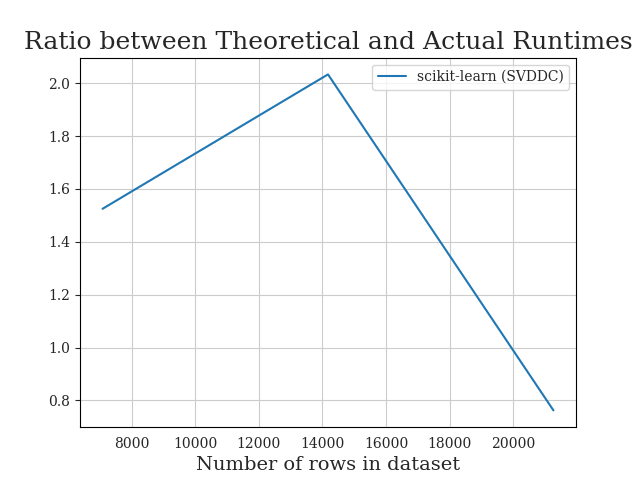
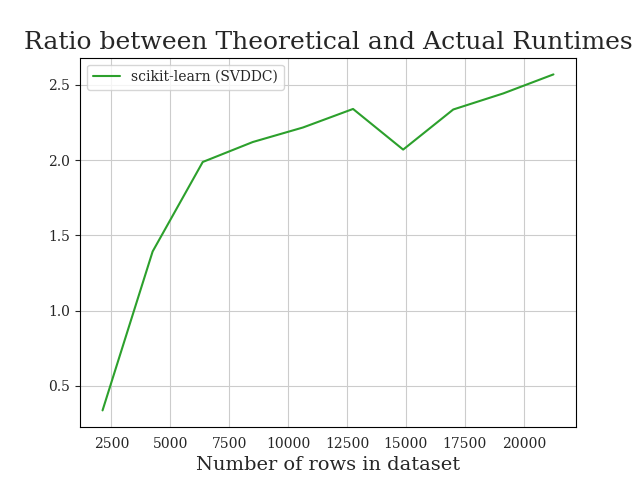
performing tests

diff --git a/BetaDataExper/BigOTest/big_o.py b/BetaDataExper/BigOTest/big_o.py
@@ -1,6 +1,6 @@
 import numpy as np
 import pandas as pd
-from time import perf_counter, process_time
+from time import perf_counter_ns, process_time_ns
 from sklearn import linear_model
 import tensorflow as tf
 import matplotlib.pyplot as plt
@@ -64,7 +64,7 @@ def actual_expr(X_train: np.array, y_train: np.array, timer: object, reg_names: 
                     model = mx.np.linalg.lstsq(partial_X_train, partial_y_train[...,np.newaxis], rcond=None)[0]
             stop_lstsq = timer()
 
-            time_list += [(stop_lstsq - start_lstsq)/10**-9] 
+            time_list += [(stop_lstsq - start_lstsq)] 
 
         results_dict[reg_name] = time_list   
 
@@ -74,9 +74,9 @@ def actual_expr(X_train: np.array, y_train: np.array, timer: object, reg_names: 
 def set_time_type(time_type: str) -> object:
     match time_type:
         case "total":
-            timer = perf_counter   
+            timer = perf_counter_ns   
         case "process":
-            timer = process_time       
+            timer = process_time_ns      
         case _:
             raise ValueError(f"time_type must be one of the options shown in the docs, not: {time_type}")
     return timer
@@ -194,6 +194,15 @@ def make_viz(actual_time_dict: dict, theory_time_dict: dict, timer: object, rows
 
     # for reg in actual_time_dict.keys():
     #     plt.plot(rows_in_expr, actual_time_dict[reg], label=label_dict[reg]+' Actual')
+    #     plt.legend()
+    #     plt.title("Theoretical Bound vs. Actual Runtime")
+    #     plt.ylabel("Time in nanoseconds")
+    #     plt.xlabel("Number of rows in dataset")
+    #     plt.savefig(f"BetaDataExper/BigOTest/figs/bigO_{reg}")
+    #     plt.clf()
+
+    # for reg in actual_time_dict.keys():
+    #     plt.plot(rows_in_expr, actual_time_dict[reg], label=label_dict[reg]+' Actual')
     #     plt.plot(rows_in_expr, theory_time_dict[reg], label=label_dict[reg]+' Theoretical')
     #     plt.legend()
     #     plt.title("Theoretical Bound vs. Actual Runtime")
@@ -201,15 +210,24 @@ def make_viz(actual_time_dict: dict, theory_time_dict: dict, timer: object, rows
     #     plt.xlabel("Number of rows in dataset")
     #     plt.savefig(f"BetaDataExper/BigOTest/figs/bigO_{reg}")
     #     plt.clf()
-    
-    for reg in actual_time_dict.keys():
-        plt.plot(rows_in_expr, [theo / act for theo, act in zip(theory_time_dict[reg],actual_time_dict[reg])], label=label_dict[reg])
+
+    for i, reg in enumerate(actual_time_dict.keys()):
+        plt.plot(rows_in_expr, [theo / act for theo, act in zip(theory_time_dict[reg],actual_time_dict[reg])], label=label_dict[reg], color=f'C{i}')
         plt.title("Ratio between Theoretical and Actual Runtimes")
-        plt.legend()
+        plt.legend(loc=2)
         plt.xlabel("Number of rows in dataset")
         plt.savefig(f"BetaDataExper/BigOTest/figs/bigO_ratio_{reg}")
         plt.clf()
     
+    for reg in actual_time_dict.keys():
+        plt.plot(rows_in_expr, [theo / act for theo, act in zip(theory_time_dict[reg],actual_time_dict[reg])], label=label_dict[reg])
+        plt.title("Ratio between Theoretical and Actual Runtimes")
+        plt.legend(loc=2)
+        plt.xlabel("Number of rows in dataset")
+
+    plt.savefig(f"BetaDataExper/BigOTest/figs/bigO_ratio_aggregate")
+
+
 
 def main(datapath: str, time_type: str, reg_names: list):
     """
@@ -231,7 +249,7 @@ def main(datapath: str, time_type: str, reg_names: list):
     r = np.linalg.matrix_rank(array)
     max_row_bound = len(str(m))
     # rows_in_expr = [10**row_bound for row_bound in range(1, max_row_bound)] # to produce orders of magnitude experiment
-    rows_in_expr = [i for i in range(math.floor(m/3),m,math.floor(m/3))] # to produce n evenly spaced amount of rows experiment
+    rows_in_expr = [i for i in range(math.floor(m/100),m,math.floor(m/100))] # to produce n evenly spaced amount of rows experiment
     print(f'Rows in Experiment: {rows_in_expr}')
 
     X, Y = array[:,:-1], array[:,-1] 
@@ -249,12 +267,9 @@ def main(datapath: str, time_type: str, reg_names: list):
 
 if __name__ =='__main__':
     path = 'BetaDataExper/BigOTest/test_data/conductivity.csv' #AutoML\PowerPlantData\Folds5x2_pp.csv or BetaDataExper/BigOTest/test_data/conductivity.csv #will need to change on quartz
-    time_type = "process" #process or total
+    time_type = "total" #process or total
 
-    reg_names = [
-        "tf-necd",
-        "tf-cod",
-        "sklearn-svddc",
-    ] #        "tf-necd", "tf-cod", "pytorch-qrcp", "pytorch-qr", "pytorch-svd", "pytorch-svddc", "sklearn-svddc", "mxnet-svddc",
+    reg_names = ["tf-necd", "tf-cod", "pytorch-qrcp", "pytorch-qr", "pytorch-svd", "pytorch-svddc", "sklearn-svddc", "mxnet-svddc",] 
+    #            "tf-necd", "tf-cod", "pytorch-qrcp", "pytorch-qr", "pytorch-svd", "pytorch-svddc", "sklearn-svddc", "mxnet-svddc",
 
     main(path, time_type, reg_names)

diff --git a/BetaDataExper/HyperEllipsoid/hyperellipsoid.py b/BetaDataExper/HyperEllipsoid/hyperellipsoid.py
@@ -127,7 +127,7 @@ def make_exp_data_2d(location, axes, rotation, resolution):
 
     df = pd.DataFrame(data_rot)
     make_line(data_rot, dim=2)
-    # df.to_csv(f"BetaDataExper/HyperEllipsoid/data/hyperell_{loc}_{axes}_{rot}_.csv", index=False, header=False)
+    df.to_csv(f"BetaDataExper/HyperEllipsoid/data/hyperell_loc-{loc}_ax-{axes}_rot-{rot}_.csv", index=False, header=False)
 
 
 def make_exp_data_3d(location, axes, rotation, resolution):
@@ -143,22 +143,22 @@ def make_exp_data_3d(location, axes, rotation, resolution):
     # df.to_csv(f"BetaDataExper/HyperEllipsoid/data/hyperell_{loc}_{axes}_{rot}_.csv", index=False, header=False)
 
 #############################################################################################
-# location2d = [(x,y) for x in [-10,0,10] for y in [-10,0,10]]
-# axis_ratio2d = [[10,b] for b in [2,6,10]]
+location2d = [(x,y) for x in [0,10] for y in [0,10]]
+axis_ratio2d = [[10,b] for b in range(1,11)]
+rotations = [0, 15, 30, 45, 60, 75, 90]
+resolution = 0.0001
+
+for loc in location2d:
+    for rot in rotations:
+        for ax in axis_ratio2d:
+            make_exp_data_2d(location=loc, axes=ax, rotation=rot, resolution=resolution)
+##############################################################################################
+# location3d = [(x,y,z) for x in [-10,0,10] for y in [-10,0,10] for z in [-10,0,10]]
+# axis_ratio3d = [(10,b,c) for b in [4,10] for c in [4,10]]
 # rotations = [0, 45, 90]
 # resolution = 0.01
 
-# for loc in location2d:
-#     for ax in axis_ratio2d:
+# for loc in location3d:
+#     for ax in axis_ratio3d:
 #         for rot in rotations:
-#             make_exp_data_2d(location=loc, axes=ax, rotation=rot, resolution=resolution)
-##############################################################################################
-location3d = [(x,y,z) for x in [-10,0,10] for y in [-10,0,10] for z in [-10,0,10]]
-axis_ratio3d = [(10,b,c) for b in [4,10] for c in [4,10]]
-rotations = [0, 45, 90]
-resolution = 0.01
-
-for loc in location3d:
-    for ax in axis_ratio3d:
-        for rot in rotations:
-            make_exp_data_3d(location=loc, axes=ax, rotation=rot, resolution=resolution)
+#             make_exp_data_3d(location=loc, axes=ax, rotation=rot, resolution=resolution)
